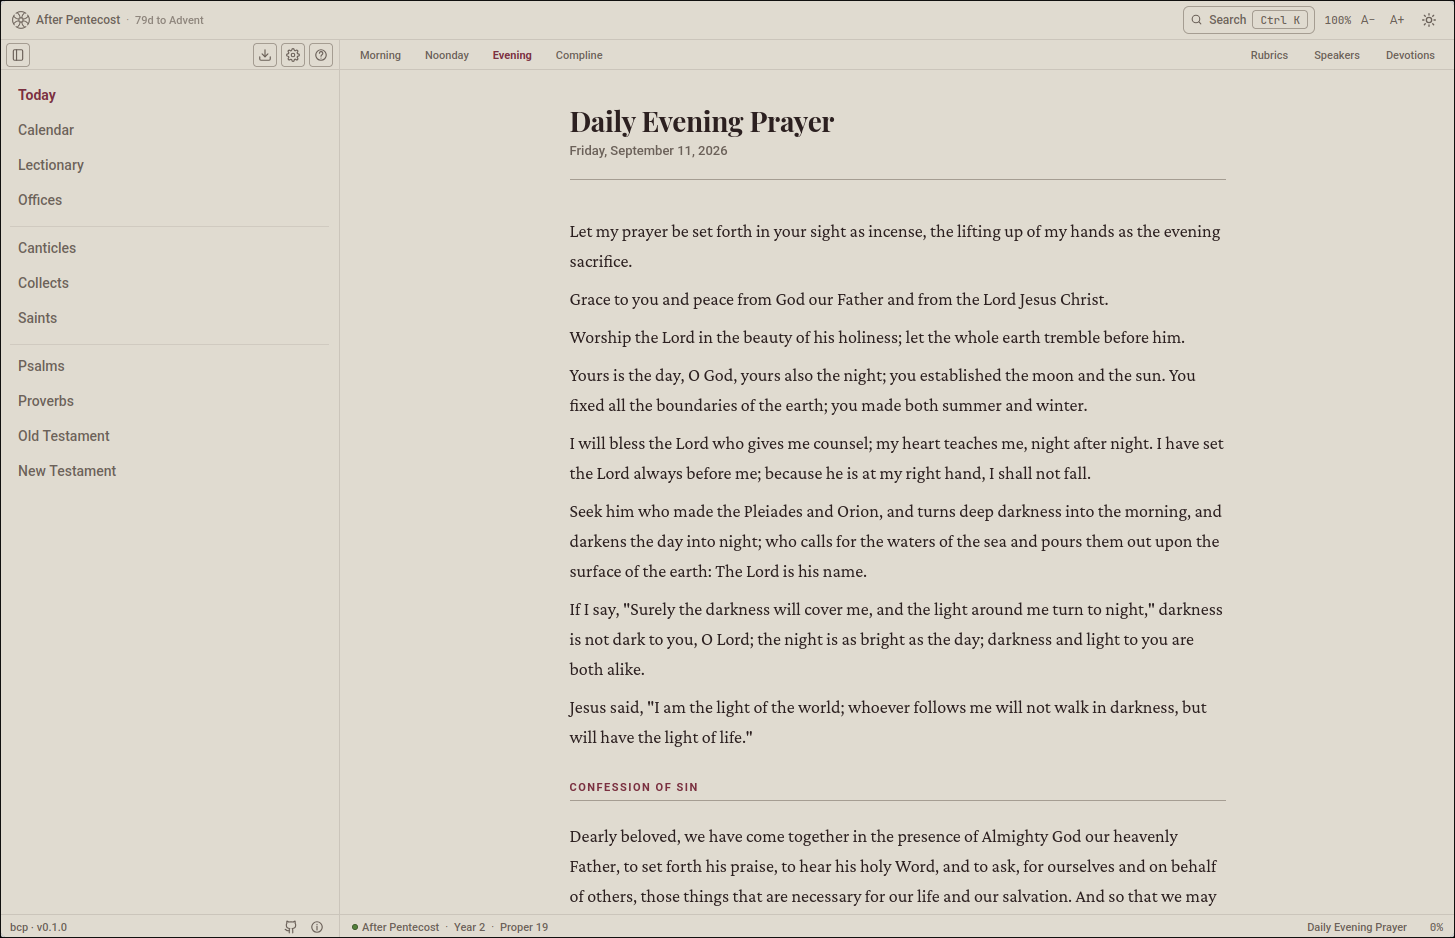
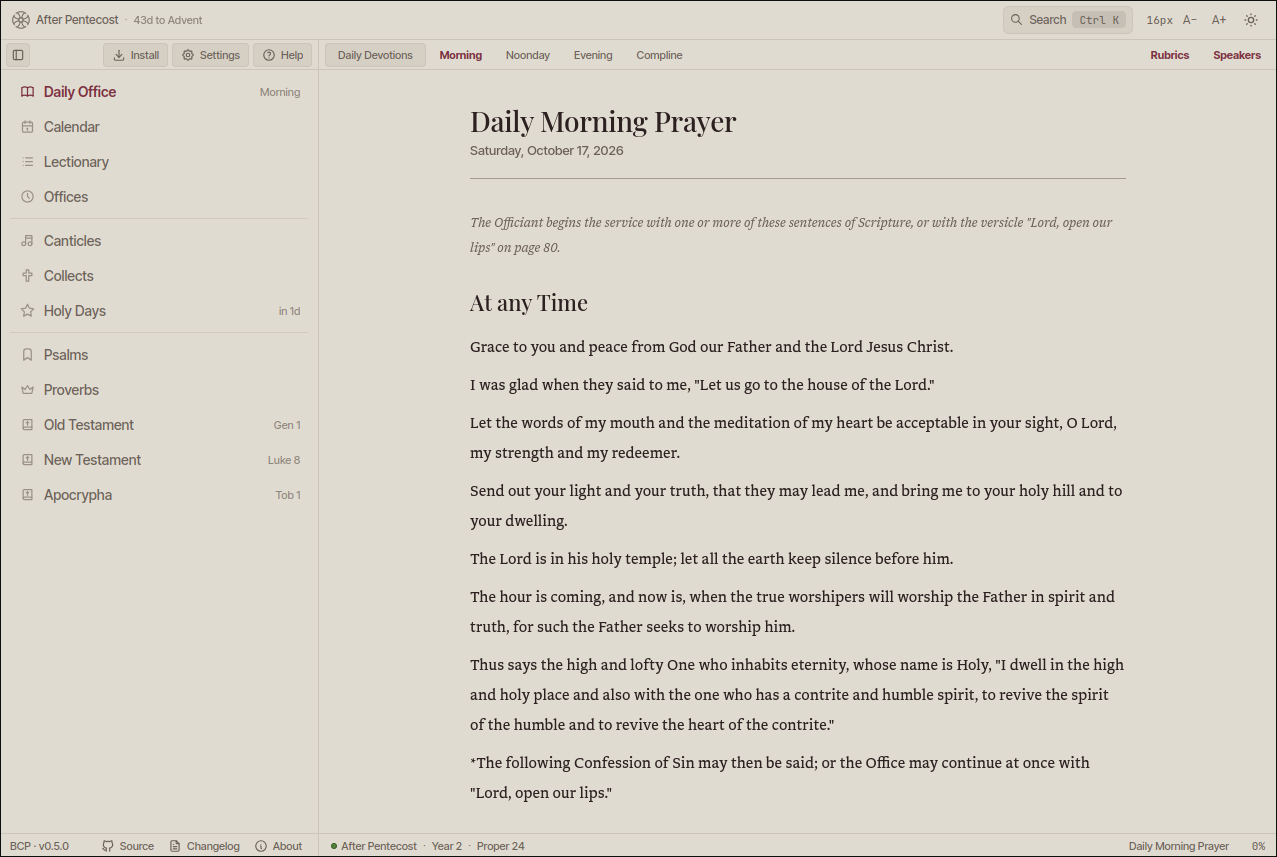
docs(README.md): update preview picture

diff --git a/README.md b/README.md
@@ -5,7 +5,7 @@
 <h1 align="center">bcp</h1>
 
 <p align="center">
-  <img src="assets/preview-rounded.png" width="820" alt="bcp Daily Office preview">
+  <img src="assets/preview.png" width="820" alt="bcp Daily Office preview">
 </p>
 
 <p align="center">
